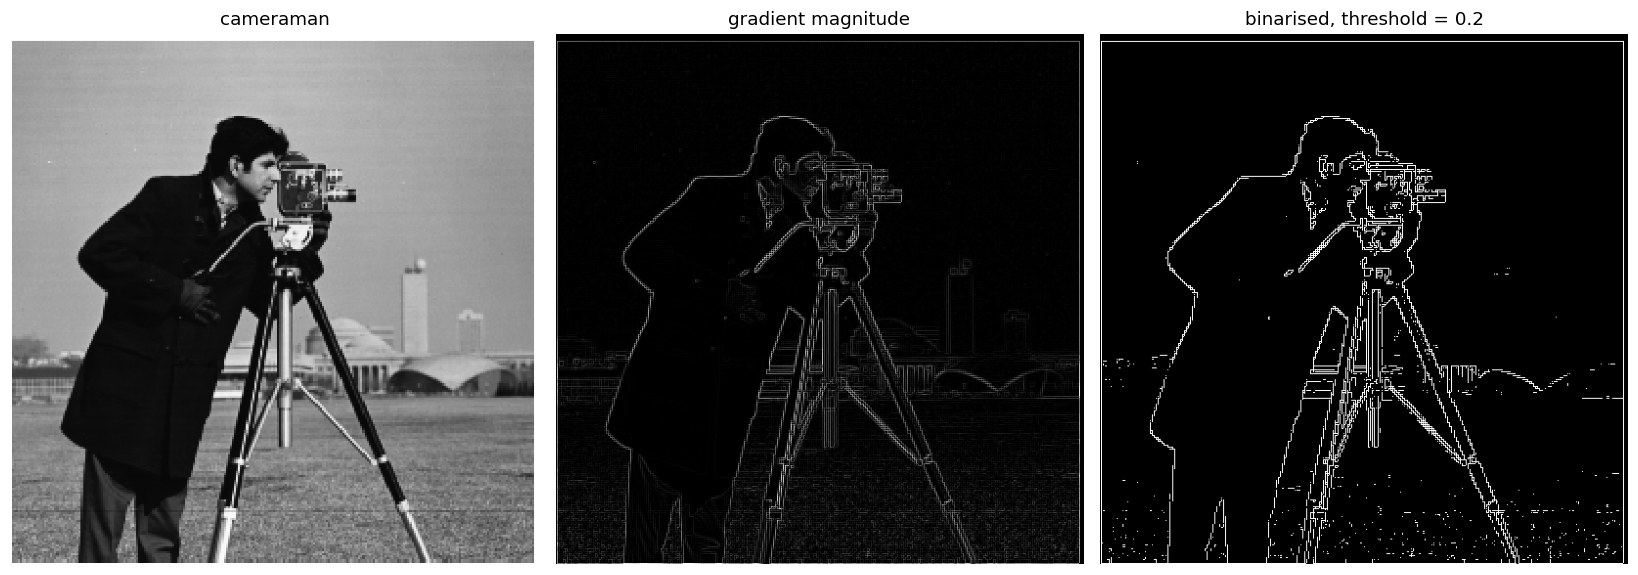
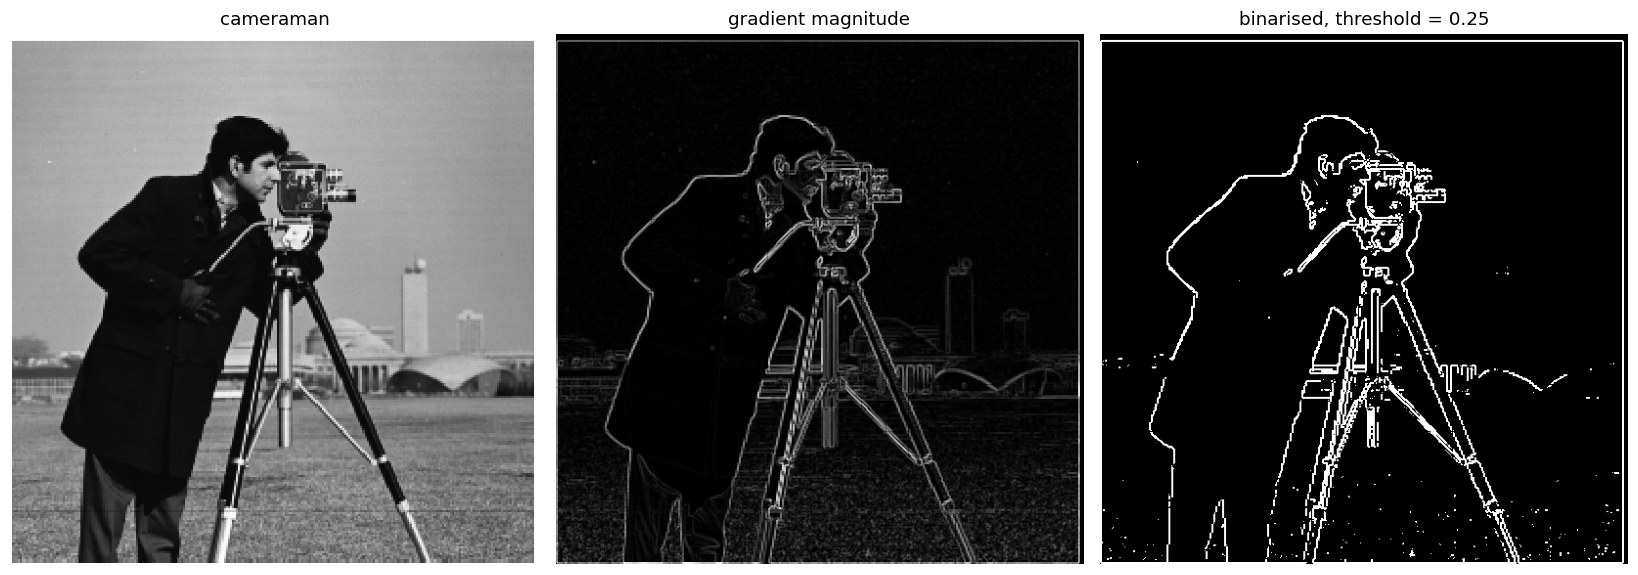
Project 2: add Parts 2.3 and 2.4, use [1, 0, -1] finite differences

diff --git a/proj2/index.html b/proj2/index.html
@@ -53,7 +53,7 @@ nav.toc a { margin-right: 14px; }
   <p class="sub">Project 2 · CS180, Fall 2026 · Tan Ee Khai</p>
   <nav class="toc">
     <a href="#p11">1.1</a><a href="#p12">1.2</a><a href="#p13">1.3</a>
-    <a href="#p21">2.1</a><a href="#p22">2.2</a><a href="#learned">Learned</a>
+    <a href="#p21">2.1</a><a href="#p22">2.2</a><a href="#p23">2.3</a><a href="#p24">2.4</a><a href="#learned">Learned</a>
   </nav>
 
   <p class="lead">Assignment 2 tests on basic convolution with filters in Part 1, using frequency-based applications in Part 2 using a mix of Gaussian Blur filters and impulse filters.</p>
@@ -66,11 +66,58 @@ nav.toc a { margin-right: 14px; }
 
   <h3>Four for loops</h3>
   <p>Loops 1 and 2 choose which output pixel (i, j) is being computed. Loops 3 and 4 walk over every position (u, v) of the filter, multiply the padded pixel under it by the flipped filter value, and add to a running total. Because the image was padded by <code>kh // 2</code> and <code>kw // 2</code>, the window that starts at padded (i, j) is centred on original pixel (i, j).</p>
+<pre>def pad_same(image, kh, kw):
+    """Zero-pad so that a kh x kw filter produces a same-size output."""
+    ph, pw = kh // 2, kw // 2
+    padded = np.zeros((image.shape[0] + 2 * ph, image.shape[1] + 2 * pw), dtype=float)
+    padded[ph:ph + image.shape[0], pw:pw + image.shape[1]] = image
+    return padded
+
+
+def conv2d_four_loops(image, kernel):
+    """2D convolution with zero padding ('same' output size), four for loops."""
+    image = np.asarray(image, dtype=float)
+    kernel = np.asarray(kernel, dtype=float)
+    kh, kw = kernel.shape
+    flipped = kernel[::-1, ::-1]          # convolution flips the filter
+    padded = pad_same(image, kh, kw)
+    out = np.zeros_like(image)
+
+    for i in range(image.shape[0]):           # loop 1: output row
+        for j in range(image.shape[1]):       # loop 2: output column
+            total = 0.0
+            for u in range(kh):               # loop 3: filter row
+                for v in range(kw):           # loop 4: filter column
+                    total += padded[i + u, j + v] * flipped[u, v]
+            out[i, j] = total
+    return out</pre>
 
   <h3>Two for loops</h3>
   <p>The inner two loops were just an elementwise multiply of a <code>kh × kw</code> patch by the flipped filter, followed by a sum. NumPy can do that in one line, so only the two loops over output pixels remain. Same answer, much faster.</p>
+<pre>def conv2d_two_loops(image, kernel):
+    """2D convolution with zero padding ('same' output size), two for loops."""
+    image = np.asarray(image, dtype=float)
+    kernel = np.asarray(kernel, dtype=float)
+    kh, kw = kernel.shape
+    flipped = kernel[::-1, ::-1]
+    padded = pad_same(image, kh, kw)
+    out = np.zeros_like(image)
 
-  <p>Both versions agree with <code>scipy.signal.convolve2d</code> with insignificant differences (likely due to rounding errors).</p>
+    for i in range(image.shape[0]):                 # loop 1: output row
+        for j in range(image.shape[1]):             # loop 2: output column
+            patch = padded[i:i + kh, j:j + kw]      # window under the filter
+            out[i, j] = np.sum(patch * flipped)
+    return out</pre>
+
+  <p>Both versions agree with <code>scipy.signal.convolve2d</code> with insignificant differences (likely due to rounding errors). The check uses a random 8×10 image and four filters, including an asymmetric one so that a missing flip would show up:</p>
+<pre>for name, k in [('box3', box3), ('Dx', Dx), ('Dy', Dy), ('asym', asym)]:
+    mine = conv2d_two_loops(img, k)
+    ref = convolve2d(img, k, mode='same', boundary='fill', fillvalue=0)
+    print(f'{name:5s} max |diff| = {np.abs(mine - ref).max():.2e}')</pre>
+<pre>box3  max |diff| = 1.11e-16
+Dx    max |diff| = 0.00e+00
+Dy    max |diff| = 0.00e+00
+asym  max |diff| = 1.78e-15</pre>
 
   <h3>Runtime</h3>
   <p>The same 9×9 box filter was timed with each version. Four loops were too slow for the full photo, so all three were first compared on a 300×300 crop.</p>
@@ -82,11 +129,22 @@ nav.toc a { margin-right: 14px; }
   <p>All three do the same calculation, so the speed difference comes from how much work Python does. Four loops do every multiplication one at a time in Python, which is slowest. Two loops let NumPy do each pixel's multiplications at once, so it is several times faster, but it still loops over every pixel in Python. Scipy does the whole convolution in compiled code with no Python loop, so it is the fastest by far.</p>
 
   <h3>Boundaries</h3>
-  <p>Only <code>'same'</code> mode is implemented: the image is zero-padded by <code>kh // 2</code> rows and <code>kw // 2</code> columns, so the output matches the input size (<code>'valid'</code> would return a smaller output, <code>'full'</code> a larger one). Zero padding treats everything outside the image as black, so pixels within four pixels of the edge (half the 9×9 filter) are darkened slightly in the box-filtered result. Scipy's <code>boundary='fill'</code> does the same, which is why the outputs match; <code>'symm'</code> mirrors the image at the edge and avoids the frame, while <code>'wrap'</code> borrows pixels from the opposite side.</p>
+  <p>Only <code>'same'</code> mode is implemented: the image is zero-padded by <code>kh // 2</code> rows and <code>kw // 2</code> columns, so the output matches the input size (<code>'valid'</code> would return a smaller output, <code>'full'</code> a larger one). Zero padding treats everything outside the image as black, so pixels within four pixels of the edge (half the 9×9 filter) are darkened slightly in the box-filtered result. Scipy's <code>boundary='fill'</code> does the same, while <code>'symm'</code> mirrors the image at the edge, and lastly <code>'wrap'</code> borrows pixels from the opposite side.</p>
 
+  <h3>Applying the filters to a photo</h3>
+<pre>rgb = iio.imread('photo_2026-09-26_16-06-52.jpg').astype(float) / 255.0
+gray = 0.299 * rgb[..., 0] + 0.587 * rgb[..., 1] + 0.114 * rgb[..., 2]   # grayscale
+
+box9 = np.ones((9, 9)) / 81
+Dx = np.array([[1, 0, -1]])
+Dy = np.array([[1], [0], [-1]])
+
+blurred = conv2d_two_loops(gray, box9)
+gx = conv2d_two_loops(gray, Dx)
+gy = conv2d_two_loops(gray, Dy)</pre>
   <figure>
     <img src="images/part1_results.jpg" alt="Photo convolved with box filter, Dx and Dy">
-    <figcaption>Grayscale photo, 9×9 box filter, D<sub>x</sub> = [1, −1], D<sub>y</sub> = [1, −1]<sup>T</sup>.</figcaption>
+    <figcaption>Grayscale photo, 9×9 box filter, D<sub>x</sub> = [1, 0, −1], D<sub>y</sub> = [1, 0, −1]<sup>T</sup>.</figcaption>
   </figure>
   <p>The photo is converted to grayscale with the luminance weights 0.299 R + 0.587 G + 0.114 B from Tutorial 1, since the eye is most sensitive to green and least to blue. The derivative outputs are signed and centred on zero, so they are shown with a symmetric grey colour map: mid-grey is zero, white is positive and black is negative. D<sub>x</sub> responds to vertical edges and D<sub>y</sub> to horizontal ones.</p>
 
@@ -106,9 +164,9 @@ nav.toc a { margin-right: 14px; }
   </figure>
   <figure>
     <img src="images/part1_2_edges.jpg" alt="Final edge map">
-    <figcaption>Final edge image at threshold 0.20.</figcaption>
+    <figcaption>Final edge image at threshold 0.25.</figcaption>
   </figure>
-  <p>At 0.05 and 0.10 the lawn is covered in speckle, since film grain in the grass produces gradients as large as some real edges. At 0.15 most of that is gone but patches of speckle survive along the bottom of the frame. By 0.25 the noise has cleared, but the distant buildings on the horizon have thinned to almost nothing and the tripod legs are starting to break up, and at 0.35 they are dashed. <strong>0.20</strong> is the compromise: the grass is nearly empty while the coat outline, the tripod, the camera body and the horizon line all survive as continuous edges.</p>
+  <p>At 0.10 and 0.15 the lawn is covered in speckle, since film grain in the grass produces gradients as large as some real edges. At 0.20 most of that is gone but patches of speckle survive along the bottom of the frame. By 0.30 the noise has cleared, but the distant buildings on the horizon have thinned to almost nothing and the tripod legs are starting to break up, and at 0.40 they are dashed. <strong>0.25</strong> is the compromise: only a few specks are left in the grass, while the coat outline, the tripod, the camera body and the horizon line all survive as continuous edges.</p>
 
   <h2 id="p13">Part 1.3: Derivative of Gaussian (DoG) Filter</h2>
   <p>The edge map from Part 1.2 was noisy. The fix is to smooth with a Gaussian before differentiating. This is done two ways and checked for agreement: blur the image with a Gaussian and then convolve with D<sub>x</sub> and D<sub>y</sub>, or convolve the Gaussian with D<sub>x</sub> and D<sub>y</sub> first to get two derivative-of-Gaussian filters and apply those to the original image in a single pass.</p>
@@ -123,9 +181,9 @@ nav.toc a { margin-right: 14px; }
   </figure>
   <figure>
     <img src="images/part1_3_threshold_sweep.jpg" alt="Threshold sweep, blurred">
-    <figcaption>Binarised blurred gradient magnitude at six thresholds. 0.06 is used below.</figcaption>
+    <figcaption>Binarised blurred gradient magnitude at six thresholds. 0.08 is used below.</figcaption>
   </figure>
-  <p>Blurring lowers the gradient magnitudes across the board, since a step spread over several pixels has a smaller per-pixel difference, so the threshold has to come down with it. At 0.02 the contours are fat and the lawn texture is still coming through. By 0.10 the coat outline has started to break up. <strong>0.06</strong> is used: the grass is essentially empty, and the coat, tripod, camera and horizon line all survive as continuous curves.</p>
+  <p>Blurring lowers the gradient magnitudes across the board, since a step spread over several pixels has a smaller per-pixel difference, so the threshold has to come down with it. At 0.04 the contours are fat and the lawn texture is still coming through, and at 0.06 a few blobs of it remain. From 0.10 the buildings on the horizon start to disappear, and by 0.15 the tripod legs are breaking up. <strong>0.08</strong> is used: the grass is essentially empty, and the coat, tripod, camera and horizon line all survive as continuous curves.</p>
   <p>The thin frame visible at the lower thresholds is not an artefact of the method. The provided <code>cameraman.png</code> is 542×540 with a pure-white margin around the classic 512×512 photograph, and that margin is a genuine step edge.</p>
   <figure class="mid">
     <img src="images/part1_3_comparison.jpg" alt="Comparison with Part 1.2">
@@ -134,17 +192,17 @@ nav.toc a { margin-right: 14px; }
   <h3>Comparison with the finite difference result</h3>
   <p><strong>The contours are continuous instead of broken.</strong> In Part 1.2 the coat outline and the tripod legs are dotted and dashed, and the lawn is scattered with isolated specks. After blurring, those same contours read as unbroken curves and the lawn is almost empty. Noise shows up as lone pixels with nothing beside them, whereas a real edge is a long curve on which neighbouring pixels also respond, so averaging each pixel with its neighbours weakens the former and reinforces the latter.</p>
   <p><strong>The edges are thicker and softer.</strong> A Gaussian spreads a sharp step over several pixels, so the derivative peak is wider and lower and the lines look fuzzier. Fine detail is smoothed away with the noise: the texture on the camera body and the far buildings on the horizon are much less distinct than in Part 1.2. The blur is a scale-selection dial, not only a noise filter.</p>
-  <p><strong>The whole image is dimmer.</strong> The blurred gradient magnitude is visibly darker everywhere, because spreading a step across several pixels makes each individual difference smaller. That is why the Part 1.2 threshold of 0.20 is useless here and a much lower one, 0.06, is needed to get a comparable edge map.</p>
+  <p><strong>The whole image is dimmer.</strong> The blurred gradient magnitude is visibly darker everywhere, because spreading a step across several pixels makes each individual difference smaller. That is why the Part 1.2 threshold of 0.25 is useless here and a much lower one, 0.08, is needed to get a comparable edge map.</p>
   <figure class="mid">
     <img src="images/part1_3_dog_filters.jpg" alt="DoG filters">
     <figcaption>The Gaussian and the two derivative-of-Gaussian filters, G * D<sub>x</sub> and G * D<sub>y</sub>.</figcaption>
   </figure>
   <figure>
     <img src="images/part1_3_verify.jpg" alt="Verification">
-    <figcaption>Blur-then-differentiate against a single DoG convolution. The difference panel is drawn on the same scale; the maximum difference is 9.3e-16.</figcaption>
+    <figcaption>Blur-then-differentiate against a single DoG convolution. The difference panel is drawn on the same scale, with the maximum difference being 9.9e-16.</figcaption>
   </figure>
   <p>Convolution is associative, so blurring and then differentiating is the same as convolving with a filter that has already been differentiated: (f * G) * D<sub>x</sub> = f * (G * D<sub>x</sub>). That means G * D<sub>x</sub> and G * D<sub>y</sub> can be precomputed once and applied to the image in a single pass.</p>
-  <p>Each DoG filter is a bell curve with one positive lobe and one negative lobe, split along the axis it differentiates. Applied to a flat region the two lobes cancel and the response is zero; across an edge they do not cancel, and the output is large. Unlike the bare [1, −1], the difference is taken between weighted averages of many pixels rather than two single ones, which is why it is less sensitive to a lone noisy pixel.</p>
+  <p>Each DoG filter is a bell curve with one positive lobe and one negative lobe, split along the axis it differentiates. Applied to a flat region the two lobes cancel out and the response is zero. Across an edge they do not cancel, and the output is large. Unlike the bare [1, 0, −1], the difference is taken between weighted averages of many pixels rather than two single pixels, which is why it is less sensitive to a lone noisy pixel.</p>
 
   <!-- ===================================================== PART 2 -->
   <hr>
@@ -215,7 +273,7 @@ hybrid = low_of_far_image + high_of_close_image</pre>
   <p>Up close, the cat's stripes, its distinct eyes and its nose stand out. From further away, Derek's broad features take over: his face shape, dark hair, eyes, nose and smile. The switch was easier to see by squinting than by stepping back. Squinting blurs the image directly, acting as a low-pass filter that removes the high frequencies regardless of how large the image is on screen, whereas stepping back only hides detail once it becomes too small to resolve. Nutmeg's whiskers are thin but bright and high-contrast, so they stay visible until you are quite far from the screen.</p>
 
   <h3>Trelawney (worried) to my friend Cynthia (smiling): full process</h3>
-  <p>Up close the hybrid shows Professor Trelawney, worried; from a distance it shows my friend Cynthia, smiling. Cynthia supplies the low frequencies and Trelawney the high frequencies.</p>
+  <p>Up close the hybrid shows Professor Trelawney, worried, and from a distance it shows my friend Cynthia, smiling. Cynthia supplies the low frequencies and Trelawney the high frequencies.</p>
   <figure>
     <img src="images/part2_2_aligned.jpg" alt="Aligned inputs">
     <figcaption>Cynthia (far image) and Trelawney (close image), both scaled to the same eye spacing and cropped with the eyes in the same place. The overlay is an alignment check.</figcaption>
@@ -250,12 +308,132 @@ hybrid = low_of_far_image + high_of_close_image</pre>
     <img src="images/part2_2b_hybrid_large.jpg" alt="Second hybrid, large">
     <figcaption>Final hybrid.</figcaption>
   </figure>
-  <p>Both are frontal official portraits from Wikimedia Commons. Neither is perfectly level, so alignment gets one extra step: each image is rotated so the line between the eyes is horizontal before scaling and cropping. The official portrait used for the close image is heavily retouched, so its fine detail is faint; the high-pass part is scaled up by 1.6 before adding so the close reading comes through.</p>
+  <p>Both are frontal official portraits from Wikimedia Commons. Neither is perfectly level, so alignment gets one extra step: each image is rotated so the line between the eyes is horizontal before scaling and cropping. The official portrait used for the close image is heavily retouched, so its fine detail is faint, so the high-pass part is scaled up by 1.6 before adding so the close reading comes through.</p>
   <p>Trump has much paler skin, blonde hair and white teeth, which are low-frequency features strong enough to show at every distance, so he does not work as the far image. On the other hand, Xi Jinping has a much smoother face, which suits being used as the low frequency. The hybrid image looks a bit cursed, though.</p>
+
+  <h2 id="p23">Part 2.3: Gaussian and Laplacian Stacks</h2>
+  <p>A Gaussian stack is like a Gaussian pyramid without the downsampling: every level is blurred more than the one before, but every level stays the same size as the original. To make each level behave like a pyramid level that has been halved in size, the blur doubles at every step (σ = 2, 4, 8, 16), giving five levels.</p>
+  <p>A Laplacian stack stores the difference between neighbouring Gaussian levels, which is the band of frequencies lost at that step. Its last level is the blurriest Gaussian level itself, so adding up every level of the Laplacian stack gives back the original image exactly (the largest error is 1.1e-16). No built-in pyramid functions are used. The blur is done as a row pass then a column pass with a 1D Gaussian from <code>cv2.getGaussianKernel</code>, since a 2D Gaussian is separable, which keeps the large kernels at the coarse levels fast.</p>
+<pre>def blur(image, sigma):
+    """Gaussian blur, one row pass then one column pass. Works on greyscale or colour images."""
+    size = int(6 * sigma) | 1                     # odd width, about 6 sigma
+    bell = cv2.getGaussianKernel(size, sigma)     # column vector that sums to 1
+    if image.ndim == 3:
+        return np.stack([blur(image[:, :, c], sigma) for c in range(image.shape[2])], axis=2)
+    rows_done = convolve2d(image, bell.T, mode='same', boundary='symm')
+    return convolve2d(rows_done, bell, mode='same', boundary='symm')
+
+
+SIGMAS = [2, 4, 8, 16]      # blur added at each step -&gt; 5 levels in every stack
+
+
+def gaussian_stack(image, sigmas=SIGMAS):
+    stack = [image]
+    for sigma in sigmas:
+        stack.append(blur(stack[-1], sigma))      # blur the previous level, never downsample
+    return stack
+
+
+def laplacian_stack(image, sigmas=SIGMAS):
+    g = gaussian_stack(image, sigmas)
+    bands = [g[i] - g[i + 1] for i in range(len(sigmas))]   # what each blur step removed
+    return bands + [g[-1]]                                  # plus the leftover low frequencies</pre>
+  <figure>
+    <img src="images/part2_3_stacks_apple.jpg" alt="Apple Gaussian and Laplacian stacks">
+    <figcaption>Apple: Gaussian stack (top) and Laplacian stack (bottom).</figcaption>
+  </figure>
+  <figure>
+    <img src="images/part2_3_stacks_orange.jpg" alt="Orange Gaussian and Laplacian stacks">
+    <figcaption>Orange: Gaussian stack (top) and Laplacian stack (bottom).</figcaption>
+  </figure>
+  <p>Level 0 of the Laplacian stack holds only the finest texture, such as the dimples on the orange peel and the outline of each fruit. Each level after that holds coarser structure: by level 3 it is the highlights and the broad shading of the fruit, and level 4 is little more than the overall colour layout.</p>
+
+  <h3>Recreating Figure 3.42</h3>
+  <p>The mask is a step function: 1 on the left half (apple) and 0 on the right half (orange). Each Laplacian level of the apple is weighted by the matching level of the mask's Gaussian stack, each level of the orange by one minus that, and the two are added. Rows show Laplacian levels 0, 2 and 4 (high, middle and low frequencies), and the bottom row adds every level together. The left column is the masked apple, the middle the masked orange and the right the combined result, as in Szeliski's figure.</p>
+  <figure class="mid">
+    <img src="images/part2_3_fig342.jpg" alt="Figure 3.42 recreation">
+    <figcaption>Recreation of Figure 3.42 (a) to (l). Signed levels share one display range across each row.</figcaption>
+  </figure>
+  <p>The seam gets wider as the level gets coarser. At level 0 the mask has not been blurred at all, so the fine detail is cut exactly down the middle, which should be fine, since a hard cut through fine texture is not noticeable. At level 4 the mask has been blurred with the widest Gaussian, so the broad red of the apple fades into the orange's yellow over a wide band. Each band of frequencies is joined over a distance that suits its size, which is why the final image has no visible seam.</p>
+
+  <h2 id="p24">Part 2.4: Multiresolution Blending</h2>
+  <p>Blending combines every level of the two Laplacian stacks using the mask's Gaussian stack at the same level, then adds the levels back up. Colour images are handled by doing this separately for each colour channel, with the same mask for all three.</p>
+<pre>def blend_levels(image_a, image_b, mask, sigmas=SIGMAS):
+    """Per-level contributions of image_a (where mask = 1) and image_b (where mask = 0)."""
+    la = laplacian_stack(image_a, sigmas)
+    lb = laplacian_stack(image_b, sigmas)
+    gm = gaussian_stack(mask, sigmas)
+    part_a = [gm[i][:, :, None] * la[i] for i in range(len(la))]
+    part_b = [(1 - gm[i][:, :, None]) * lb[i] for i in range(len(lb))]
+    return part_a, part_b
+
+
+def blend(image_a, image_b, mask, sigmas=SIGMAS):
+    part_a, part_b = blend_levels(image_a, image_b, mask, sigmas)
+    return np.clip(sum(part_a) + sum(part_b), 0, 1)</pre>
+
+  <h3>The oraple</h3>
+  <figure>
+    <img src="images/part2_4_oraple.jpg" alt="Oraple">
+    <figcaption>Apple, orange, a hard cut with the unblurred step mask, and the multiresolution blend.</figcaption>
+  </figure>
+  <p>The hard cut shows a sharp vertical line where the red apple meets the yellow orange. In the blend the colour changes gradually across the middle, while the orange's dimpled texture still stops cleanly at the centre instead of fading out as a ghost.</p>
+
+  <h3>Straight seam: Earth and Mars</h3>
+  <p>A vertical step mask joins the left half of the Earth to the right half of Mars. The two photos frame their planets differently, so each disc is found first (the rows and columns that contain pixels brighter than the black background), then cropped to a square around it with the same margin and resized to 600×600, so that the two discs line up.</p>
+<pre>def crop_planet(image, margin=1.08):
+    """Square crop centred on the planet, with the disc filling the same share of every crop."""
+    grey = image.mean(axis=2)
+    lit_rows = np.where((grey &gt; 0.1).sum(axis=1) &gt; 20)[0]     # rows that cross the disc
+    lit_cols = np.where((grey &gt; 0.1).sum(axis=0) &gt; 20)[0]     # columns that cross the disc
+    centre_row = (lit_rows[0] + lit_rows[-1]) / 2
+    centre_col = (lit_cols[0] + lit_cols[-1]) / 2
+    radius = max(lit_rows[-1] - lit_rows[0], lit_cols[-1] - lit_cols[0]) / 2
+    half = int(round(margin * radius))
+
+    pad = half                                                # in case the square runs off the photo
+    padded = np.pad(image, ((pad, pad), (pad, pad), (0, 0)))  # pads with black, like space
+    top = int(round(centre_row)) - half + pad
+    left = int(round(centre_col)) - half + pad
+    square = padded[top:top + 2 * half, left:left + 2 * half]
+    return resize(square, (PLANET_SIZE, PLANET_SIZE), anti_aliasing=True)</pre>
+  <p>The crop matters since both images do not have similar proportions, with the Earth image having a larger proportion of "Earth" to background compared to Mars.</p>
+  <figure class="mid">
+    <img src="images/part2_4_seam_uncropped.jpg" alt="Earth and Mars blended without cropping">
+    <figcaption>Without cropping: both photos only resized to 600×600, then blended.</figcaption>
+  </figure>
+  <figure>
+    <img src="images/part2_4_seam.jpg" alt="Earth and Mars blended">
+    <figcaption>Earth, Mars, a hard cut, and the multiresolution blend.</figcaption>
+  </figure>
+  <figure class="narrow">
+    <img src="images/part2_4_seam_large.jpg" alt="Earth and Mars blend, large">
+    <figcaption>Final blend.</figcaption>
+  </figure>
+  <p>In the hard cut, both halves meet along a line, while in the blend, Earth's blue and white gradually fade into orange. It does not, however, fade as nicely as the oraple, since blue and orange are opposite colours and the wide low-frequency transition is harder to notice there.</p>
+
+  <h3>Irregular mask: Xi Jinping's face on Donald Trump</h3>
+  <p>A face swap: an ellipse covering Xi's eyebrows, eyes, nose and mouth is blended into Trump's portrait, so Trump keeps his hair, ears, suit and background. The portraits are aligned with the same eye-based rotate, scale and crop as the hybrid images, but zoomed out so the whole head fits in the crop. Because the eyes land at the same place in both crops, the ellipse is placed relative to the eyes: it is centred just below them and sized in multiples of the distance between the pupils.</p>
+  <figure>
+    <img src="images/part2_4_irregular.jpg" alt="Face swap">
+    <figcaption>Xi, Trump, the mask, a hard cut, and the multiresolution blend.</figcaption>
+  </figure>
+  <figure class="narrow">
+    <img src="images/part2_4_irregular_large.jpg" alt="Face swap, large">
+    <figcaption>Final blend.</figcaption>
+  </figure>
+  <p>The hard cut looks like a mask stuck onto the head: Xi's skin is paler and pinker than Trump's, and the ellipse has a sharp outline running across the forehead and cheeks. In the blend the skin tone shifts gradually from Xi's in the middle to Trump's at the edges, and the outline disappears, so the face reads as one person with Trump's hair and Xi's features. I felt the Earth to Mars one was better, purely because facial proportions are not considered on a simple stitched image like this, while Mars and Earth have similar elliptical shapes instead.</p>
+
+  <h3>The process for my favourite blend</h3>
+  <figure class="mid">
+    <img src="images/part2_4_irregular_levels.jpg" alt="Laplacian stack of the face swap">
+    <figcaption>Laplacian levels 0, 2 and 4 of the face swap, and all levels summed. Left: masked Xi. Middle: masked Trump. Right: their sum. Compare Figure 10 of Burt and Adelson.</figcaption>
+  </figure>
+  <p>At level 0 only Xi's fine wrinkles and the outlines of his eyes and mouth are pasted in, with a sharp edge. At level 4 the masked regions are wide, soft blobs: Trump's face has a dark hole where the mask removed it, and Xi's blurred skin tone fills it in the sum. The fine detail changes over a short distance and the broad colour over a long one, which is what hides the edge of the ellipse.</p>
 
   <hr>
   <h2 id="learned">The most important thing I learned</h2>
-  <p>The simplest idea I learnt from this project is that blurring and sharpening can both be done just by convolving an image with simple filters. What surprised me is how much comes out of one step: blurring an image and subtracting the blur from the original separates the fine detail from the broad shapes, and that single idea is behind edge detection, sharpening and hybrid images. It also showed me the limit of sharpening, since once a blur removes fine detail, sharpening can only boost what is left rather than bring it back.</p>
+  <p>The simplest idea I learnt from this project is that blurring and sharpening can both be done just by convolving an image with simple filters. What surprised me is how much comes out of one step: blurring an image and subtracting the blur from the original separates the fine detail from the broad shapes, and that single idea is behind edge detection, sharpening, hybrid images and multiresolution blending. It also showed me the limit of sharpening, since once a blur removes fine detail, sharpening can only boost what is left rather than bring it back.</p>
 </div>
 </body>
 </html>
